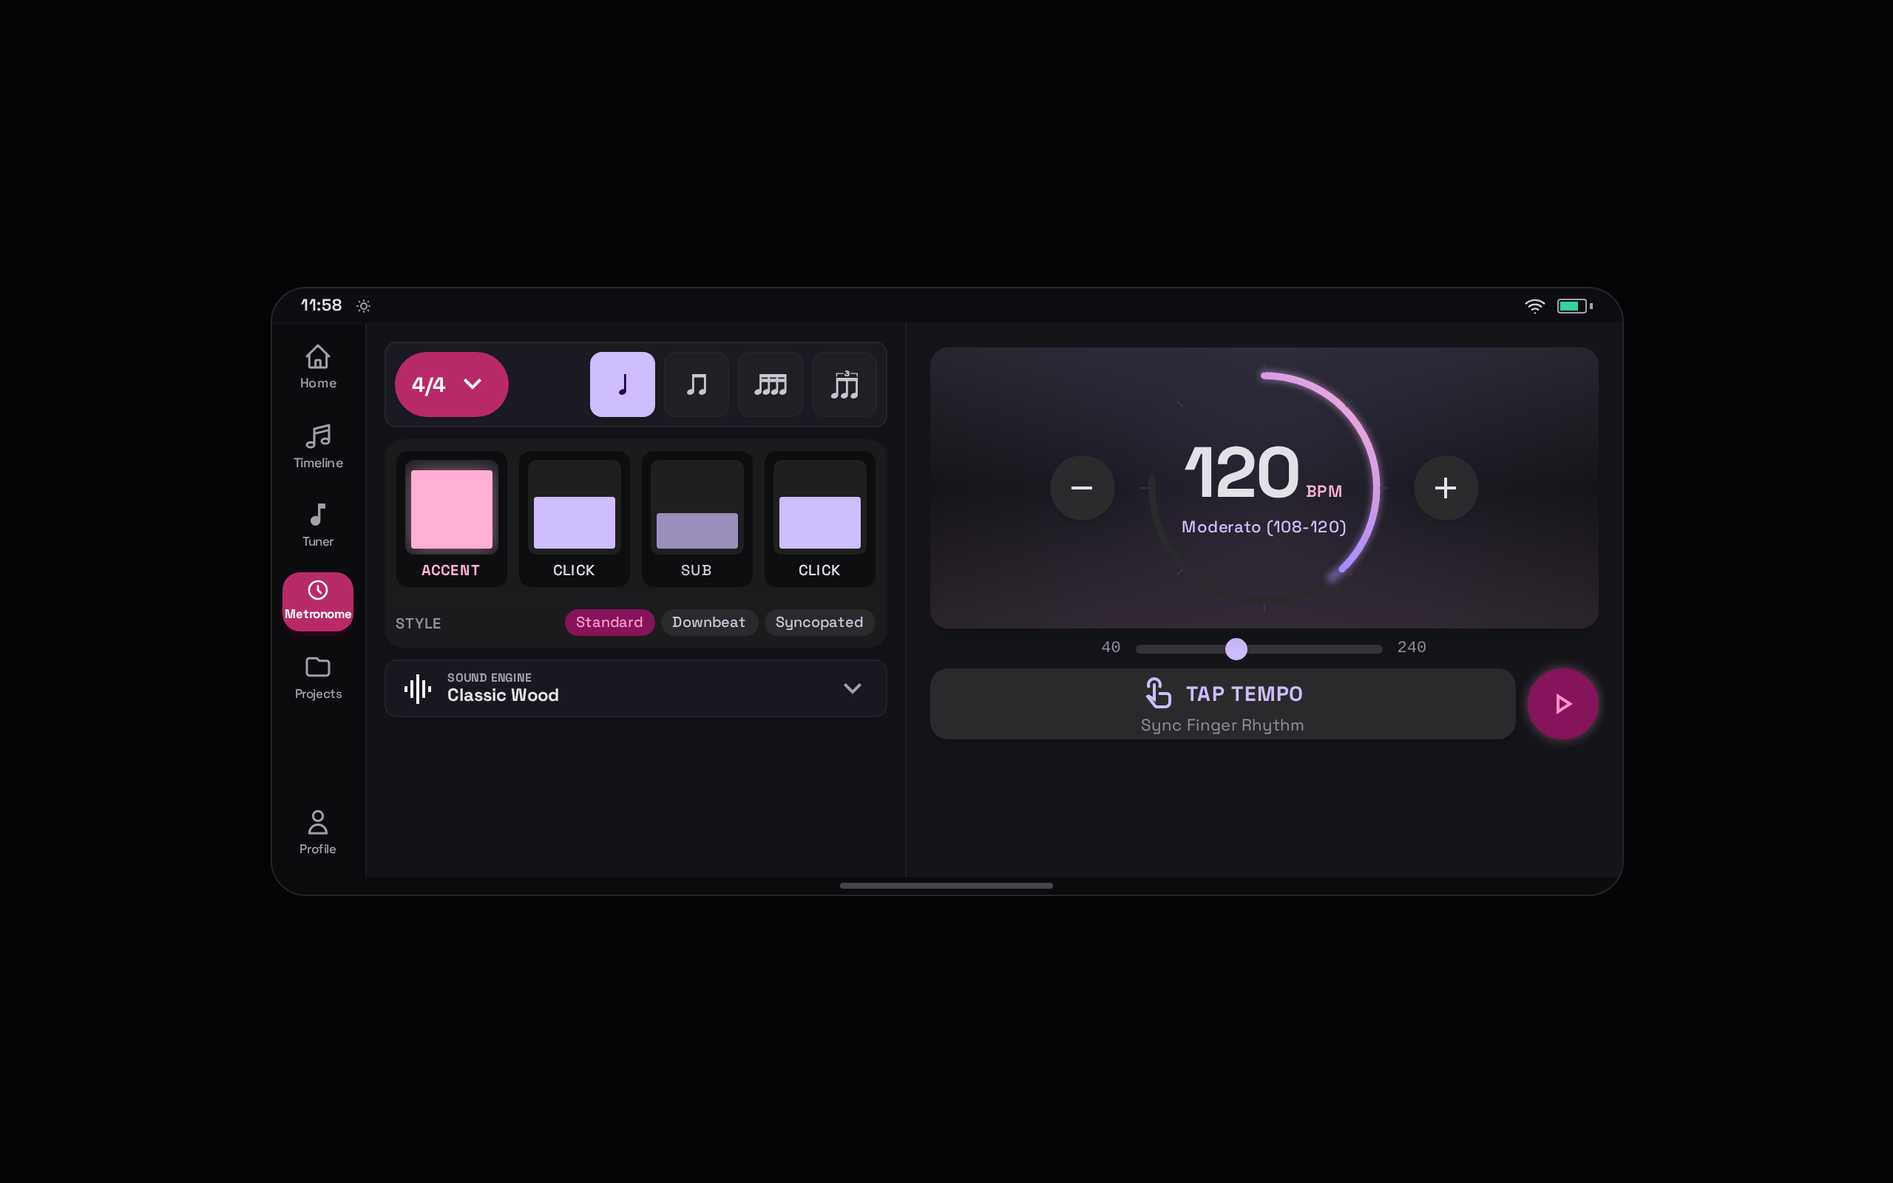
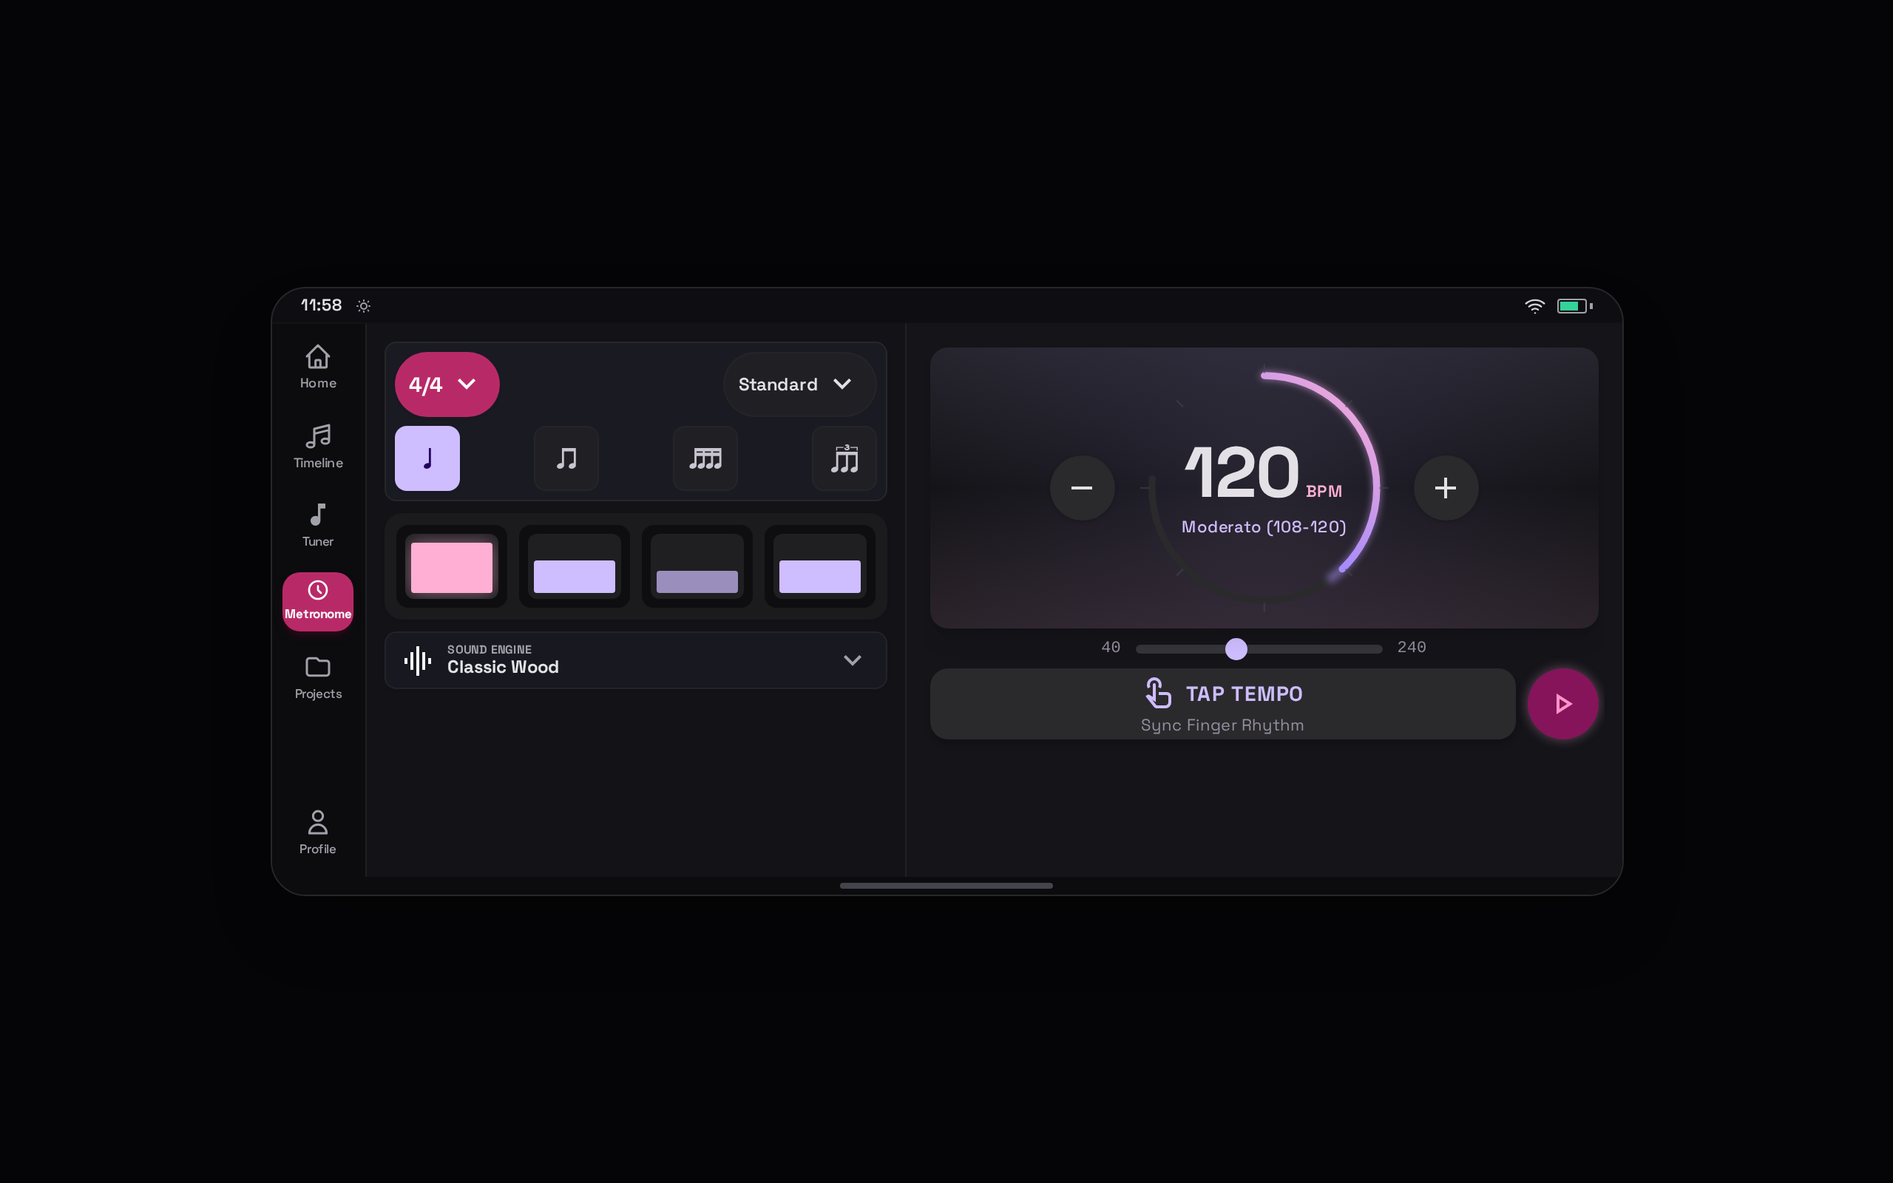
design(stitch): metronome landscape v8 — 2:3 split with the stacked landscape card (feature 004 D1)

Changed region(s): [[0.1875, 0.3125, 0.4688, 0.5938], [0.3125, 0.2812, 0.4688, 0.375]]

diff --git a/design/stitch/screens/metronome/phone-landscape/index.html b/design/stitch/screens/metronome/phone-landscape/index.html
@@ -145,10 +145,10 @@
 <!-- END: LeftmostNavRail -->
 <!-- BEGIN: ControlsPanel -->
 <!-- Compact sidebar containing all settings reorganized from Image 32 toolbar -->
-<section class="w-[40%] min-w-0 shrink-0 bg-[#121217] border-r border-[#202027] p-3 flex flex-col justify-start gap-2 select-none z-10 overflow-y-auto" data-purpose="metronome-controls-panel"><!-- Bar-shape row (design iteration D1, 2026-10-01): time-signature menu pill beside the four subdivision tiles, as on the phone screen -->
-<div class="bg-[#1a1a22] p-1.5 rounded-lg border border-zinc-800 flex items-center justify-between gap-2">
-<button type="button" class="h-11 px-3 rounded-full bg-[#b82a67] text-white font-bold text-sm flex items-center gap-1.5 shadow-sm" aria-haspopup="listbox" aria-expanded="false" title="Time signature"><span>4/4</span><span class="material-symbols-outlined text-[16px] leading-none">expand_more</span></button>
-<div class="flex items-center gap-1.5"><button type="button" class="w-11 h-11 rounded-lg bg-[#cebdff] text-[#21005e] flex items-center justify-center shadow-sm" title="1/4" aria-label="1/4" aria-pressed="true"><svg class="w-6 h-6 fill-current" viewBox="0 0 24 24" aria-hidden="true"><path d="M14.35,16.2L14.41,16.43L14.43,16.67L14.41,16.91L14.34,17.16L14.24,17.41L14.1,17.65L13.92,17.88L13.71,18.09L13.47,18.29L13.2,18.47L12.92,18.62L12.62,18.75L12.3,18.84L11.99,18.91L11.67,18.94L11.36,18.95L11.06,18.92L10.77,18.85L10.51,18.76L10.27,18.64L10.07,18.49L9.89,18.32L9.75,18.12L9.65,17.91L9.59,17.68L9.57,17.44L9.59,17.2L9.66,16.95L9.76,16.7L9.9,16.46L10.08,16.23L10.29,16.02L10.53,15.82L10.8,15.64L11.08,15.49L11.38,15.36L11.7,15.27L12.01,15.2L12.33,15.16L12.64,15.16L12.94,15.19L13.23,15.25L13.49,15.35L13.73,15.47L13.93,15.62L14.11,15.79L14.25,15.99Z M12.98,5.05L14.38,5.05L14.38,16.75L12.98,16.75Z"/></svg></button>
+<section class="w-[40%] min-w-0 shrink-0 bg-[#121217] border-r border-[#202027] p-3 flex flex-col justify-start gap-2 select-none z-10 overflow-y-auto" data-purpose="metronome-controls-panel"><!-- Landscape bar-shape card (design iteration D1, 2026-10-01, 1:3 split): signature and style menu pills, then the four subdivision tiles -->
+<div class="bg-[#1a1a22] p-1.5 rounded-lg border border-zinc-800 flex flex-col gap-1.5">
+<div class="flex items-center justify-between gap-1.5"><button type="button" class="h-11 px-2.5 rounded-full bg-[#b82a67] text-white font-bold text-sm flex items-center gap-1 shadow-sm" aria-haspopup="listbox" aria-expanded="false" title="Time signature"><span>4/4</span><span class="material-symbols-outlined text-[16px] leading-none">expand_more</span></button><button type="button" class="h-11 px-2.5 rounded-full bg-[#202024] text-[#e4e1e6] font-semibold text-xs flex items-center gap-1 border border-zinc-800/80" aria-haspopup="listbox" aria-expanded="false" title="Style"><span>Standard</span><span class="material-symbols-outlined text-[16px] leading-none">expand_more</span></button></div>
+<div class="flex items-center justify-between gap-1.5"><button type="button" class="w-11 h-11 rounded-lg bg-[#cebdff] text-[#21005e] flex items-center justify-center shadow-sm" title="1/4" aria-label="1/4" aria-pressed="true"><svg class="w-6 h-6 fill-current" viewBox="0 0 24 24" aria-hidden="true"><path d="M14.35,16.2L14.41,16.43L14.43,16.67L14.41,16.91L14.34,17.16L14.24,17.41L14.1,17.65L13.92,17.88L13.71,18.09L13.47,18.29L13.2,18.47L12.92,18.62L12.62,18.75L12.3,18.84L11.99,18.91L11.67,18.94L11.36,18.95L11.06,18.92L10.77,18.85L10.51,18.76L10.27,18.64L10.07,18.49L9.89,18.32L9.75,18.12L9.65,17.91L9.59,17.68L9.57,17.44L9.59,17.2L9.66,16.95L9.76,16.7L9.9,16.46L10.08,16.23L10.29,16.02L10.53,15.82L10.8,15.64L11.08,15.49L11.38,15.36L11.7,15.27L12.01,15.2L12.33,15.16L12.64,15.16L12.94,15.19L13.23,15.25L13.49,15.35L13.73,15.47L13.93,15.62L14.11,15.79L14.25,15.99Z M12.98,5.05L14.38,5.05L14.38,16.75L12.98,16.75Z"/></svg></button>
 <button type="button" class="w-11 h-11 rounded-lg bg-[#202024] text-[#c9c5d0] hover:text-white flex items-center justify-center border border-zinc-800/80 transition-colors" title="1/8" aria-label="1/8"><svg class="w-6 h-6 fill-current" viewBox="0 0 24 24" aria-hidden="true"><path d="M10.35,16.2L10.41,16.43L10.43,16.67L10.41,16.91L10.34,17.16L10.24,17.41L10.1,17.65L9.92,17.88L9.71,18.09L9.47,18.29L9.2,18.47L8.92,18.62L8.62,18.75L8.3,18.84L7.99,18.91L7.67,18.94L7.36,18.95L7.06,18.92L6.77,18.85L6.51,18.76L6.27,18.64L6.07,18.49L5.89,18.32L5.75,18.12L5.65,17.91L5.59,17.68L5.57,17.44L5.59,17.2L5.66,16.95L5.76,16.7L5.9,16.46L6.08,16.23L6.29,16.02L6.53,15.82L6.8,15.64L7.08,15.49L7.38,15.36L7.7,15.27L8.01,15.2L8.33,15.16L8.64,15.16L8.94,15.19L9.23,15.25L9.49,15.35L9.73,15.47L9.93,15.62L10.11,15.79L10.25,15.99Z M8.98,5.05L10.38,5.05L10.38,16.75L8.98,16.75Z M18.35,16.2L18.41,16.43L18.43,16.67L18.41,16.91L18.34,17.16L18.24,17.41L18.1,17.65L17.92,17.88L17.71,18.09L17.47,18.29L17.2,18.47L16.92,18.62L16.62,18.75L16.3,18.84L15.99,18.91L15.67,18.94L15.36,18.95L15.06,18.92L14.77,18.85L14.51,18.76L14.27,18.64L14.07,18.49L13.89,18.32L13.75,18.12L13.65,17.91L13.59,17.68L13.57,17.44L13.59,17.2L13.66,16.95L13.76,16.7L13.9,16.46L14.08,16.23L14.29,16.02L14.53,15.82L14.8,15.64L15.08,15.49L15.38,15.36L15.7,15.27L16.01,15.2L16.33,15.16L16.64,15.16L16.94,15.19L17.23,15.25L17.49,15.35L17.73,15.47L17.93,15.62L18.11,15.79L18.25,15.99Z M16.98,5.05L18.38,5.05L18.38,16.75L16.98,16.75Z M8.98,5.05L18.38,5.05L18.38,7.25L8.98,7.25Z"/></svg></button>
 <button type="button" class="w-11 h-11 rounded-lg bg-[#202024] text-[#c9c5d0] hover:text-white flex items-center justify-center border border-zinc-800/80 transition-colors" title="1/16" aria-label="1/16"><svg class="w-6 h-6 fill-current" viewBox="0 0 24 24" aria-hidden="true"><path d="M5.95,16.2L6.01,16.43L6.03,16.67L6.01,16.91L5.94,17.16L5.84,17.41L5.7,17.65L5.52,17.88L5.31,18.09L5.07,18.29L4.8,18.47L4.52,18.62L4.22,18.75L3.9,18.84L3.59,18.91L3.27,18.94L2.96,18.95L2.66,18.92L2.37,18.85L2.11,18.76L1.87,18.64L1.67,18.49L1.49,18.32L1.35,18.12L1.25,17.91L1.19,17.68L1.17,17.44L1.19,17.2L1.26,16.95L1.36,16.7L1.5,16.46L1.68,16.23L1.89,16.02L2.13,15.82L2.4,15.64L2.68,15.49L2.98,15.36L3.3,15.27L3.61,15.2L3.93,15.16L4.24,15.16L4.54,15.19L4.83,15.25L5.09,15.35L5.33,15.47L5.53,15.62L5.71,15.79L5.85,15.99Z M4.58,5.05L5.98,5.05L5.98,16.75L4.58,16.75Z M11.55,16.2L11.61,16.43L11.63,16.67L11.61,16.91L11.54,17.16L11.44,17.41L11.3,17.65L11.12,17.88L10.91,18.09L10.67,18.29L10.4,18.47L10.12,18.62L9.82,18.75L9.5,18.84L9.19,18.91L8.87,18.94L8.56,18.95L8.26,18.92L7.97,18.85L7.71,18.76L7.47,18.64L7.27,18.49L7.09,18.32L6.95,18.12L6.85,17.91L6.79,17.68L6.77,17.44L6.79,17.2L6.86,16.95L6.96,16.7L7.1,16.46L7.28,16.23L7.49,16.02L7.73,15.82L8,15.64L8.28,15.49L8.58,15.36L8.9,15.27L9.21,15.2L9.53,15.16L9.84,15.16L10.14,15.19L10.43,15.25L10.69,15.35L10.93,15.47L11.13,15.62L11.31,15.79L11.45,15.99Z M10.18,5.05L11.58,5.05L11.58,16.75L10.18,16.75Z M17.15,16.2L17.21,16.43L17.23,16.67L17.21,16.91L17.14,17.16L17.04,17.41L16.9,17.65L16.72,17.88L16.51,18.09L16.27,18.29L16,18.47L15.72,18.62L15.42,18.75L15.1,18.84L14.79,18.91L14.47,18.94L14.16,18.95L13.86,18.92L13.57,18.85L13.31,18.76L13.07,18.64L12.87,18.49L12.69,18.32L12.55,18.12L12.45,17.91L12.39,17.68L12.37,17.44L12.39,17.2L12.46,16.95L12.56,16.7L12.7,16.46L12.88,16.23L13.09,16.02L13.33,15.82L13.6,15.64L13.88,15.49L14.18,15.36L14.5,15.27L14.81,15.2L15.13,15.16L15.44,15.16L15.74,15.19L16.03,15.25L16.29,15.35L16.53,15.47L16.73,15.62L16.91,15.79L17.05,15.99Z M15.78,5.05L17.18,5.05L17.18,16.75L15.78,16.75Z M22.75,16.2L22.81,16.43L22.83,16.67L22.81,16.91L22.74,17.16L22.64,17.41L22.5,17.65L22.32,17.88L22.11,18.09L21.87,18.29L21.6,18.47L21.32,18.62L21.02,18.75L20.7,18.84L20.39,18.91L20.07,18.94L19.76,18.95L19.46,18.92L19.17,18.85L18.91,18.76L18.67,18.64L18.47,18.49L18.29,18.32L18.15,18.12L18.05,17.91L17.99,17.68L17.97,17.44L17.99,17.2L18.06,16.95L18.16,16.7L18.3,16.46L18.48,16.23L18.69,16.02L18.93,15.82L19.2,15.64L19.48,15.49L19.78,15.36L20.1,15.27L20.41,15.2L20.73,15.16L21.04,15.16L21.34,15.19L21.63,15.25L21.89,15.35L22.13,15.47L22.33,15.62L22.51,15.79L22.65,15.99Z M21.38,5.05L22.78,5.05L22.78,16.75L21.38,16.75Z M4.58,5.05L22.78,5.05L22.78,7.25L4.58,7.25Z M4.58,8.15L22.78,8.15L22.78,10.35L4.58,10.35Z"/></svg></button>
 <button type="button" class="w-11 h-11 rounded-lg bg-[#202024] text-[#c9c5d0] hover:text-white flex items-center justify-center border border-zinc-800/80 transition-colors" title="3let" aria-label="3let"><svg class="w-6 h-6 fill-current" viewBox="0 0 24 24" aria-hidden="true"><path d="M7.75,18.7L7.81,18.93L7.83,19.16L7.81,19.41L7.74,19.66L7.64,19.9L7.5,20.14L7.32,20.37L7.11,20.59L6.87,20.79L6.6,20.97L6.32,21.12L6.02,21.24L5.7,21.34L5.39,21.41L5.07,21.44L4.76,21.45L4.46,21.42L4.17,21.35L3.91,21.26L3.67,21.14L3.47,20.99L3.29,20.82L3.15,20.62L3.05,20.41L2.99,20.18L2.97,19.94L2.99,19.7L3.06,19.45L3.16,19.2L3.3,18.96L3.48,18.73L3.69,18.52L3.93,18.32L4.2,18.14L4.48,17.99L4.78,17.86L5.1,17.76L5.41,17.7L5.73,17.66L6.04,17.66L6.34,17.69L6.63,17.75L6.89,17.84L7.13,17.97L7.33,18.12L7.51,18.29L7.65,18.48Z M6.38,7.55L7.78,7.55L7.78,19.25L6.38,19.25Z M14.35,18.7L14.41,18.93L14.43,19.16L14.41,19.41L14.34,19.66L14.24,19.9L14.1,20.14L13.92,20.37L13.71,20.59L13.47,20.79L13.2,20.97L12.92,21.12L12.62,21.24L12.3,21.34L11.99,21.41L11.67,21.44L11.36,21.45L11.06,21.42L10.77,21.35L10.51,21.26L10.27,21.14L10.07,20.99L9.89,20.82L9.75,20.62L9.65,20.41L9.59,20.18L9.57,19.94L9.59,19.7L9.66,19.45L9.76,19.2L9.9,18.96L10.08,18.73L10.29,18.52L10.53,18.32L10.8,18.14L11.08,17.99L11.38,17.86L11.7,17.76L12.01,17.7L12.33,17.66L12.64,17.66L12.94,17.69L13.23,17.75L13.49,17.84L13.73,17.97L13.93,18.12L14.11,18.29L14.25,18.48Z M12.98,7.55L14.38,7.55L14.38,19.25L12.98,19.25Z M20.95,18.7L21.01,18.93L21.03,19.16L21.01,19.41L20.94,19.66L20.84,19.9L20.7,20.14L20.52,20.37L20.31,20.59L20.07,20.79L19.8,20.97L19.52,21.12L19.22,21.24L18.9,21.34L18.59,21.41L18.27,21.44L17.96,21.45L17.66,21.42L17.37,21.35L17.11,21.26L16.87,21.14L16.67,20.99L16.49,20.82L16.35,20.62L16.25,20.41L16.19,20.18L16.17,19.94L16.19,19.7L16.26,19.45L16.36,19.2L16.5,18.96L16.68,18.73L16.89,18.52L17.13,18.32L17.4,18.14L17.68,17.99L17.98,17.86L18.3,17.76L18.61,17.7L18.93,17.66L19.24,17.66L19.54,17.69L19.83,17.75L20.09,17.84L20.33,17.97L20.53,18.12L20.71,18.29L20.85,18.48Z M19.58,7.55L20.98,7.55L20.98,19.25L19.58,19.25Z M6.38,7.55L20.98,7.55L20.98,9.75L6.38,9.75Z M12.29,3.09L12.41,2.97L12.58,2.84L12.76,2.75L12.95,2.67L13.16,2.61L13.37,2.57L13.59,2.55L13.8,2.56L14.02,2.58L14.23,2.62L14.43,2.68L14.63,2.76L14.81,2.86L14.97,2.99L15.11,3.14L15.22,3.33L15.29,3.54L15.3,3.76L15.26,3.98L15.16,4.18L15.03,4.35L14.88,4.49L14.71,4.6L14.52,4.69L14.32,4.76L14.11,4.81L13.9,4.84L13.68,4.84L13.18,4.84L13.18,3.89L13.67,3.89L13.81,3.89L13.94,3.87L14.06,3.84L14.16,3.81L14.24,3.77L14.3,3.73L14.34,3.7L14.36,3.68L14.36,3.68L14.35,3.69L14.35,3.71L14.36,3.72L14.35,3.71L14.33,3.69L14.28,3.65L14.21,3.61L14.12,3.57L14.01,3.54L13.88,3.52L13.75,3.5L13.62,3.5L13.49,3.51L13.37,3.54L13.26,3.57L13.16,3.61L13.09,3.65L13.03,3.68L12.98,3.75Z M13.18,3.89L13.69,3.9L13.97,3.91L14.26,3.97L14.54,4.06L14.79,4.18L15.02,4.35L15.22,4.55L15.36,4.79L15.44,5.07L15.45,5.36L15.37,5.63L15.23,5.88L15.04,6.09L14.81,6.25L14.56,6.38L14.29,6.48L14,6.53L13.7,6.55L13.41,6.54L13.12,6.49L12.84,6.4L12.58,6.28L12.35,6.12L12.16,5.92L12.01,5.68L11.92,5.4L11.91,5.12L11.98,4.84L12.08,4.64L12.92,5.09L12.86,5.18L12.85,5.21L12.85,5.24L12.87,5.27L12.9,5.32L12.96,5.39L13.06,5.45L13.19,5.52L13.34,5.56L13.51,5.59L13.69,5.6L13.87,5.59L14.04,5.56L14.19,5.51L14.32,5.44L14.41,5.38L14.47,5.31L14.49,5.27L14.5,5.24L14.5,5.21L14.49,5.18L14.46,5.13L14.4,5.07L14.31,5L14.18,4.94L14.03,4.89L13.86,4.86L13.67,4.84L13.18,4.84Z M6.38,4.2L11.35,4.2L11.35,4.9L6.38,4.9Z M16,4.2L20.98,4.2L20.98,4.9L16,4.9Z M6.38,4.2L7.08,4.2L7.08,6.75L6.38,6.75Z M20.28,4.2L20.98,4.2L20.98,6.75L20.28,6.75Z"/></svg></button></div>
@@ -158,7 +158,7 @@
   
 
   <!-- Section 4: Timbre Sound Selector Dropdown -->
-  <div class="rounded-xl bg-[#1b1b1e] p-2 shadow-sm flex flex-col gap-2"><div class="grid grid-cols-4 gap-2"><div class="beat-col flex flex-col items-center gap-1.5 p-1.5 rounded-lg bg-[#0e0e11] cursor-pointer"><div class="w-full h-16 bg-[#1f1f22] rounded-md p-1 flex items-end overflow-hidden"><div class="w-full bg-[#ffafd3] rounded-sm h-[95%]" style="box-shadow: 0 0 12px rgba(255,175,211,0.5);"></div></div><span class="text-[10px] font-bold tracking-wider text-[#ffafd3] leading-none">ACCENT</span></div><div class="beat-col flex flex-col items-center gap-1.5 p-1.5 rounded-lg bg-[#0e0e11] cursor-pointer"><div class="w-full h-16 bg-[#1f1f22] rounded-md p-1 flex items-end overflow-hidden"><div class="w-full bg-[#cebdff] rounded-sm h-[62%]"></div></div><span class="text-[10px] font-medium tracking-wider text-[#e4e1e6] leading-none">CLICK</span></div><div class="beat-col flex flex-col items-center gap-1.5 p-1.5 rounded-lg bg-[#0e0e11] cursor-pointer"><div class="w-full h-16 bg-[#1f1f22] rounded-md p-1 flex items-end overflow-hidden"><div class="w-full bg-[#cebdff]/70 rounded-sm h-[42%]"></div></div><span class="text-[10px] font-medium tracking-wider text-[#cac4d4] leading-none">SUB</span></div><div class="beat-col flex flex-col items-center gap-1.5 p-1.5 rounded-lg bg-[#0e0e11] cursor-pointer"><div class="w-full h-16 bg-[#1f1f22] rounded-md p-1 flex items-end overflow-hidden"><div class="w-full bg-[#cebdff] rounded-sm h-[62%]"></div></div><span class="text-[10px] font-medium tracking-wider text-[#e4e1e6] leading-none">CLICK</span></div></div><div class="pt-1.5 border-t border-[#1f1f22] flex items-center justify-between gap-1"><span class="text-[10px] font-semibold uppercase tracking-wider text-[#948e9d]">STYLE</span><div class="flex items-center gap-1 flex-wrap justify-end"><button type="button" class="rounded-full px-2 py-1 text-[10px] font-medium bg-[#85145a] text-[#ff93c8] leading-none">Standard</button><button type="button" class="rounded-full px-2 py-1 text-[10px] font-medium bg-[#2a2a2d] text-[#cac4d4] hover:text-white leading-none transition-colors">Downbeat</button><button type="button" class="rounded-full px-2 py-1 text-[10px] font-medium bg-[#2a2a2d] text-[#cac4d4] hover:text-white leading-none transition-colors">Syncopated</button></div></div></div><div class="bg-[#181820] py-1.5 px-2.5 rounded-lg border border-zinc-800/80 flex items-center justify-between cursor-pointer hover:border-zinc-700 transition-colors shadow-sm">
+  <div class="rounded-xl bg-[#1b1b1e] p-2 shadow-sm flex flex-col gap-2"><div class="grid grid-cols-4 gap-2"><div class="beat-col flex flex-col items-center gap-1.5 p-1.5 rounded-lg bg-[#0e0e11] cursor-pointer"><div class="w-full h-11 bg-[#1f1f22] rounded-md p-1 flex items-end overflow-hidden"><div class="w-full bg-[#ffafd3] rounded-sm h-[95%]" style="box-shadow: 0 0 12px rgba(255,175,211,0.5);"></div></div></div><div class="beat-col flex flex-col items-center gap-1.5 p-1.5 rounded-lg bg-[#0e0e11] cursor-pointer"><div class="w-full h-11 bg-[#1f1f22] rounded-md p-1 flex items-end overflow-hidden"><div class="w-full bg-[#cebdff] rounded-sm h-[62%]"></div></div></div><div class="beat-col flex flex-col items-center gap-1.5 p-1.5 rounded-lg bg-[#0e0e11] cursor-pointer"><div class="w-full h-11 bg-[#1f1f22] rounded-md p-1 flex items-end overflow-hidden"><div class="w-full bg-[#cebdff]/70 rounded-sm h-[42%]"></div></div></div><div class="beat-col flex flex-col items-center gap-1.5 p-1.5 rounded-lg bg-[#0e0e11] cursor-pointer"><div class="w-full h-11 bg-[#1f1f22] rounded-md p-1 flex items-end overflow-hidden"><div class="w-full bg-[#cebdff] rounded-sm h-[62%]"></div></div></div></div></div><div class="bg-[#181820] py-1.5 px-2.5 rounded-lg border border-zinc-800/80 flex items-center justify-between cursor-pointer hover:border-zinc-700 transition-colors shadow-sm">
     <div class="flex items-center space-x-2">
       <span class="material-symbols-outlined text-secondary text-base">graphic_eq</span>
       <div class="flex flex-col text-left">

diff --git a/design/stitch/README.md b/design/stitch/README.md
@@ -29,7 +29,7 @@ Nine screens, each in a phone (390-wide) and tablet (1280-wide) variant; the tun
 | **Instrument tuner** | `instrument-tuner/phone` | `instrument-tuner/tablet` | Guitar / Cello, 6- or 7-string, Auto Listen vs By Ear. Arc gauge with needle, detected note (E2), Hz readout vs target, flat/sharp arrows, "In tune" badge, mic-active pill. |
 | **Tuner by ear** | `tuner-by-ear-cello/phone` | `tuner-by-ear-7-string-guitar/tablet` | Reference-tone mode: tuning preset picker, loop-tone toggle, one card per string (note, Hz, Audition / Playing). |
 | **Tuner, phone landscape** (added 2026-09-28) | `tuner-landscape-auto-listen-a` … `-e`, `tuner-landscape-by-ear-a` … `-g` | — | Twelve variants of the tuner for a phone held sideways (all `DESKTOP` canvases, about 1280 × 410–720). The app follows `tuner-landscape-auto-listen-b` ("Mobile Landscape Auto Listen Tuner") and `tuner-landscape-by-ear-g` / `-e` ("Mobile Landscape By Ear", six and seven strings): a labelled rail, a settings column (instrument, strings, mode, preset, loop toggle) and the gauge or the string cards beside it. Rationale and the rejected variants: `specs/003-instrument-tuner/research.md` R9/R11. |
-| **Metronome** (added 2026-09-29, phone and landscape revised 2026-10-01) | `metronome/phone` | `metronome/tablet` | Phone: one compact "bar shape" card (time-signature menu pill beside four icon-only subdivision tiles drawn with the app's note-figure glyphs, the accent cells in one row, a STYLE pill row), the sound-engine pill, then a gradient BPM dial card that takes the remaining height (in-ring − / + steppers, 40–240 slider), and the Tap Tempo and Play row with an 8 px play halo — the earlier three-card top pushed the dial off a phone screen. Tablet: the original cards layout. `metronome/phone-landscape` is the phone-held-sideways layout (rail, then a 2:3 split: a two-fifths controls column holding the same compact bar-shape card as the phone — signature menu pill beside the glyph tiles, one-row accent cells, STYLE pills — and the sound-engine pill; the dial card with its slider spans the remaining three fifths with the Tap Tempo and Play row underneath; v7, 2026-10-01, after five user checks on the Pixel). Both phone screens are HTML uploaded from Claude Code (v2 and v3 of the screens; the superseded instances are hidden on the canvas), not Stitch generations: the MCP in-place edit never persists. Stitch's three generated proposals for the compact phone layout ("Metronome Compact (Precision Modular / Studio Flow / Live Performance)") stay in the project for reference; v2 is built on "Live Performance". |
+| **Metronome** (added 2026-09-29, phone and landscape revised 2026-10-01) | `metronome/phone` | `metronome/tablet` | Phone: one compact "bar shape" card (time-signature menu pill beside four icon-only subdivision tiles drawn with the app's note-figure glyphs, the accent cells in one row, a STYLE pill row), the sound-engine pill, then a gradient BPM dial card that takes the remaining height (in-ring − / + steppers, 40–240 slider), and the Tap Tempo and Play row with an 8 px play halo — the earlier three-card top pushed the dial off a phone screen. Tablet: the original cards layout. `metronome/phone-landscape` is the phone-held-sideways layout (rail, then a 2:3 split: a two-fifths controls column holding the landscape bar-shape card — signature and style menu pills on one row, the four glyph tiles, the accent cells without labels (two rows of 44 dp cells for 6/8 and 7/8) — and the sound-engine pill; the dial card with its slider spans the remaining three fifths with the Tap Tempo and Play row underneath; v8, 2026-10-01, sized to the real content area after the rail and safe areas). Both phone screens are HTML uploaded from Claude Code (v2 and v3 of the screens; the superseded instances are hidden on the canvas), not Stitch generations: the MCP in-place edit never persists. Stitch's three generated proposals for the compact phone layout ("Metronome Compact (Precision Modular / Studio Flow / Live Performance)") stay in the project for reference; v2 is built on "Live Performance". |
 | **Audio export & stem mastering** | `export-mastering/phone` | `export-mastering/tablet` | Stem routing matrix (per-stem checkbox, tag, format, size), estimated total, format (WAV / FLAC / MP3 320 / AAC), sample rate, bit depth, gradient "Render selected stems" CTA. |
 
 The four original reference mockups uploaded to the project are already in `../mockups/`.
